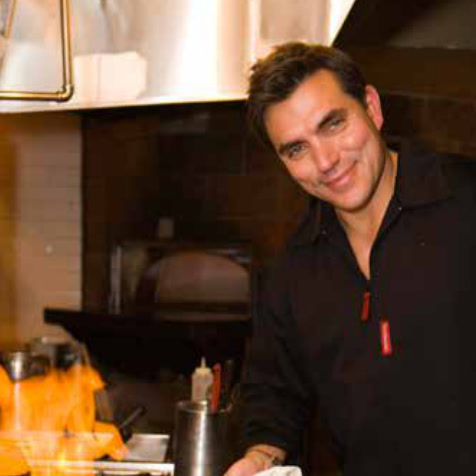
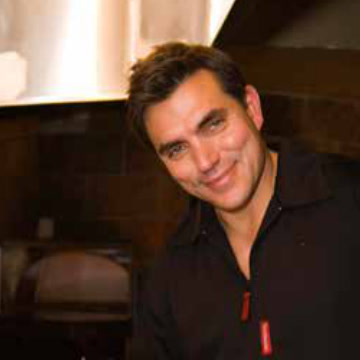
toddenglishv2: colour cover, statement subtitle, centred portraits, labelled Also Open
- Cover photo back to colour (drop grayscale filter); subtitle now 'Four-time
  James Beard Award winner — from one wood oven in Charlestown to more than
  fifty restaurants in eight countries'
- Continents claims replaced with verified country counts (eight career-wide,
  four for today's seven kitchens); Mission stats 30+ -> 50+ to match Archive
- About headshot: centred TE-coat portrait; Olives medallion re-centred
- Tuscany card shows the dining room, not a dish
- Also Open cards: image-left layout so names/descriptions no longer fall
  off the page

diff --git a/toddenglishv2/index.html b/toddenglishv2/index.html
@@ -164,18 +164,18 @@ html.v7hero-on .v7hero{display:block}
           <span class="v7l"><span class="c" style="--d:.08s">T</span><span class="c" style="--d:.16s">O</span><span class="c" style="--d:.24s">D</span><span class="c" style="--d:.32s">D</span></span>
           <span class="v7l v7l-it"><span class="c" style="--d:.48s">E</span><span class="c" style="--d:.55s">n</span><span class="c" style="--d:.62s">g</span><span class="c" style="--d:.69s">l</span><span class="c" style="--d:.76s">i</span><span class="c" style="--d:.83s">s</span><span class="c" style="--d:.90s">h</span><span class="c" style="--d:.97s">.</span></span>
         </h1>
-        <p class="v7sub">Chef. Restaurateur. Storyteller. Thirty-five years at the pass &mdash; from Olives in 1989 to a portfolio spanning four continents.</p>
+        <p class="v7sub">Chef. Restaurateur. Storyteller. Thirty-five years at the pass &mdash; from Olives in 1989 to a portfolio spanning eight countries.</p>
         <div class="v7meta">
           <div><span class="v7num">4</span><span class="v7lab">James Beard Awards</span></div>
           <div><span class="v7num">35+</span><span class="v7lab">Years Cooking</span></div>
           <div><span class="v7num">15</span><span class="v7lab">Cookbooks</span></div>
-          <div><span class="v7num">4</span><span class="v7lab">Continents</span></div>
+          <div><span class="v7num">8</span><span class="v7lab">Countries</span></div>
         </div>
       </div>
       <div class="v7strip" aria-hidden="true">
         <div class="v7strip-track">
-          <span><em>James Beard</em> &times;4</span><i>&#10022;</i><span>Est. 1989</span><i>&#10022;</i><span><em>Olives</em> to <em>bluezoo</em></span><i>&#10022;</i><span>15 Cookbooks</span><i>&#10022;</i><span>4 Continents</span><i>&#10022;</i><span>Official Media Kit</span><i>&#10022;</i>
-          <span><em>James Beard</em> &times;4</span><i>&#10022;</i><span>Est. 1989</span><i>&#10022;</i><span><em>Olives</em> to <em>bluezoo</em></span><i>&#10022;</i><span>15 Cookbooks</span><i>&#10022;</i><span>4 Continents</span><i>&#10022;</i><span>Official Media Kit</span><i>&#10022;</i>
+          <span><em>James Beard</em> &times;4</span><i>&#10022;</i><span>Est. 1989</span><i>&#10022;</i><span><em>Olives</em> to <em>bluezoo</em></span><i>&#10022;</i><span>15 Cookbooks</span><i>&#10022;</i><span>8 Countries</span><i>&#10022;</i><span>Official Media Kit</span><i>&#10022;</i>
+          <span><em>James Beard</em> &times;4</span><i>&#10022;</i><span>Est. 1989</span><i>&#10022;</i><span><em>Olives</em> to <em>bluezoo</em></span><i>&#10022;</i><span>15 Cookbooks</span><i>&#10022;</i><span>8 Countries</span><i>&#10022;</i><span>Official Media Kit</span><i>&#10022;</i>
         </div>
       </div>
     </div>
@@ -210,7 +210,7 @@ html.v7hero-on .v7hero{display:block}
     <div class="cc-mast">
       <span class="cc-eyebrow"><i></i>Est. 1989 · Boston to the World</span>
       <h1 class="cc-name"><span class="f">Todd</span><span class="s">English</span></h1>
-      <p class="cc-sub">Chef &amp; restaurateur. <strong>Four James Beard Awards</strong>, seven kitchens on three continents.</p>
+      <p class="cc-sub">Chef &amp; restaurateur. <strong>Four-time James Beard Award winner</strong> &mdash; from one wood oven in Charlestown to more than fifty restaurants in eight countries.</p>
     </div>
     <figure class="cc-frame">
       <div class="inner">
@@ -246,9 +246,9 @@ html.v7hero-on .v7hero{display:block}
 
     <div class="mis-stats">
       <div><b>4</b><i>James Beard</i></div>
-      <div><b>30+</b><i>Restaurants</i></div>
+      <div><b>50+</b><i>Restaurants</i></div>
       <div><b>15</b><i>Cookbooks</i></div>
-      <div><b>4</b><i>Continents</i></div>
+      <div><b>8</b><i>Countries</i></div>
     </div>
 
     <div class="mis-collage">
@@ -264,7 +264,7 @@ html.v7hero-on .v7hero{display:block}
     <h2 class="mis-mission">The Mission</h2>
     <div class="mis-body">
       <p>Rustic Mediterranean food, cooked with fire and conviction &mdash; the idea that opened Olives in 1989 and still runs every kitchen that carries the name.</p>
-      <p>From a fifty-seat room in Charlestown to a tower rising over Miami: the same hand, the same fire, now on four continents.</p>
+      <p>From a fifty-seat room in Charlestown to a tower rising over Miami: the same hand, the same fire, now in eight countries.</p>
     </div>
 
     <div class="mis-foot">
@@ -330,7 +330,7 @@ html.v7hero-on .v7hero{display:block}
       <span class="div-num">I</span>
       <h2 class="div-title">The Chef</h2>
       <span class="div-orn">✦</span>
-      <p class="div-line">Thirty-five years of fire — from a fifty-seat room in Charlestown to kitchens on three continents.</p>
+      <p class="div-line">Thirty-five years of fire — from a fifty-seat room in Charlestown to kitchens in eight countries.</p>
       <span class="div-foot">Todd English · Media Kit 2026 · 03/30</span>
     </div>
   </section>
@@ -343,18 +343,18 @@ html.v7hero-on .v7hero{display:block}
 
     <div class="ab2-intro">
       <figure class="ab2-portrait">
-        <img src="about-headshot.jpg" alt="Portrait of chef Todd English in his embroidered black chef's coat.">
+        <img src="about-headshot.jpg" alt="Portrait of chef Todd English in his TE chef's coat.">
         <figcaption>Boston &middot; Est. 1989</figcaption>
       </figure>
       <div class="ab2-head">
         <h2 class="ab2-title" id="bio-heading">About <em>Todd</em></h2>
-        <p class="ab2-sub">Four James Beard Awards &middot; Seven kitchens &middot; Three continents</p>
+        <p class="ab2-sub">Four James Beard Awards &middot; 50+ restaurants &middot; Eight countries</p>
       </div>
     </div>
 
     <div class="ab2-body">
       <p><span class="drop">T</span>odd English started cooking at fifteen. He graduated with honors from the Culinary Institute of America, trained under Jean-Jacques Rachou at La Côte Basque, then left for Italy and came back with an idea that changed American dining: rustic Mediterranean food, cooked with fire and conviction. Olives opened in Charlestown in 1989 with fifty seats and a wood oven; within a decade it was a global name.</p>
-      <p>Four James Beard Awards followed — along with television, fifteen cookbooks, restaurants on four continents, and a generation of cooks who came up through his kitchens. Today he runs the plays he invented through The English Hospitality Group: from Walt Disney World to Bali, a 24/7 food hall in Abu Dhabi, and a residents-only concept rising sixty-two stories above Miami.</p>
+      <p>Four James Beard Awards followed — along with television, fifteen cookbooks, restaurants in eight countries, and a generation of cooks who came up through his kitchens. Today he runs the plays he invented through The English Hospitality Group: from Walt Disney World to Bali, a 24/7 food hall in Abu Dhabi, and a residents-only concept rising sixty-two stories above Miami.</p>
     </div>
 
     <div class="ab2-grid">
@@ -433,7 +433,7 @@ html.v7hero-on .v7hero{display:block}
       <span class="div-num">II</span>
       <h2 class="div-title">The Active Table</h2>
       <span class="div-orn">✦</span>
-      <p class="div-line">Seven kitchens, three continents, one signature. Every venue verified open, July 2026.</p>
+      <p class="div-line">Seven kitchens, four countries, one signature. Every venue verified open, July 2026.</p>
       <span class="div-foot">Todd English · Media Kit 2026 · 08/30</span>
     </div>
   </section>
@@ -443,7 +443,7 @@ html.v7hero-on .v7hero{display:block}
     <div class="page-head"><span class="ph-brand">Todd English · Media Kit</span><span class="ph-no">The Active Table · 09/30</span></div>
     <div class="page-rule"></div>
     <h2 class="section-title" id="active-heading"><span class="script-kick">open for service</span>The Active Table</h2>
-    <p class="section-sub">Seven kitchens, three continents, one signature. Every venue below is open, verified July 2026, and cooking tonight.</p>
+    <p class="section-sub">Seven kitchens, four countries, one signature. Every venue below is open, verified July 2026, and cooking tonight.</p>
 
     <div class="venues">
       <article class="venue">
@@ -496,7 +496,7 @@ html.v7hero-on .v7hero{display:block}
       </article>
 
       <article class="venue">
-        <div class="venue-photo"><img src="tuscany-pizza.jpg" alt="Wood-fired flatbread with tomato, basil and mozzarella at Tuscany, Mohegan Sun."></div>
+        <div class="venue-photo"><img src="gallery/venues/tuscany-dining.jpg" alt="The dining room at Todd English's Tuscany, Mohegan Sun."></div>
         <div class="venue-copy">
           <p class="kicker">Mohegan Sun · Connecticut</p>
           <h3>Tuscany</h3>

diff --git a/toddenglishv2/modern.css b/toddenglishv2/modern.css
@@ -107,7 +107,7 @@ img{display:block;max-width:100%}
 .sheet--cover-cream .cc-sub strong{color:var(--ink);font-weight:700}
 .sheet--cover-cream .cc-frame{margin:24px 0 0;flex:1;min-height:0;position:relative;border:1px solid rgba(169,126,63,.55);padding:9px}
 .sheet--cover-cream .cc-frame .inner{width:100%;height:100%;position:relative;overflow:hidden}
-.sheet--cover-cream .cc-frame img{width:100%;height:100%;object-fit:cover;object-position:50% 22%;filter:grayscale(1) contrast(1.04) brightness(1.03)}
+.sheet--cover-cream .cc-frame img{width:100%;height:100%;object-fit:cover;object-position:50% 22%}
 .sheet--cover-cream .cc-frame .tag{position:absolute;left:18px;bottom:18px;background:rgba(246,242,234,.9);color:#6b4322;font:600 9px/1 var(--sans);letter-spacing:.2em;text-transform:uppercase;padding:7px 12px;border:1px solid rgba(169,126,63,.45)}
 .sheet--cover-cream .cc-foot{display:flex;justify-content:space-between;align-items:center;margin-top:22px;gap:16px}
 .sheet--cover-cream .cc-chips{display:flex;gap:10px;flex-wrap:wrap}
@@ -530,3 +530,11 @@ img{display:block;max-width:100%}
 .arc-medals .stamp{display:block;font:700 9px/1 var(--sans);letter-spacing:.16em;text-transform:uppercase;color:var(--accent)}
 .arc-medals b{display:block;margin-top:6px;font-family:'Playfair Display',serif;font-weight:500;font-size:19px;line-height:1.15;color:var(--ink)}
 .arc-medals .t{display:block;margin:5px auto 0;max-width:30ch;font:400 11px/1.5 var(--sans);color:var(--body)}
+
+/* Also Open: image left, text right — names + descriptions were pushed off the page */
+.also-grid{padding:12px var(--pad) 0}
+.also-card{display:grid;grid-template-columns:128px 1fr;gap:14px;align-items:start}
+.also-card img{width:128px;height:128px;aspect-ratio:auto;margin:0}
+.also-card .chip{display:none}
+.also-card h4{font-size:15px;margin:0 0 5px}
+.also-card p{font-size:11px;line-height:1.5;margin:0}
